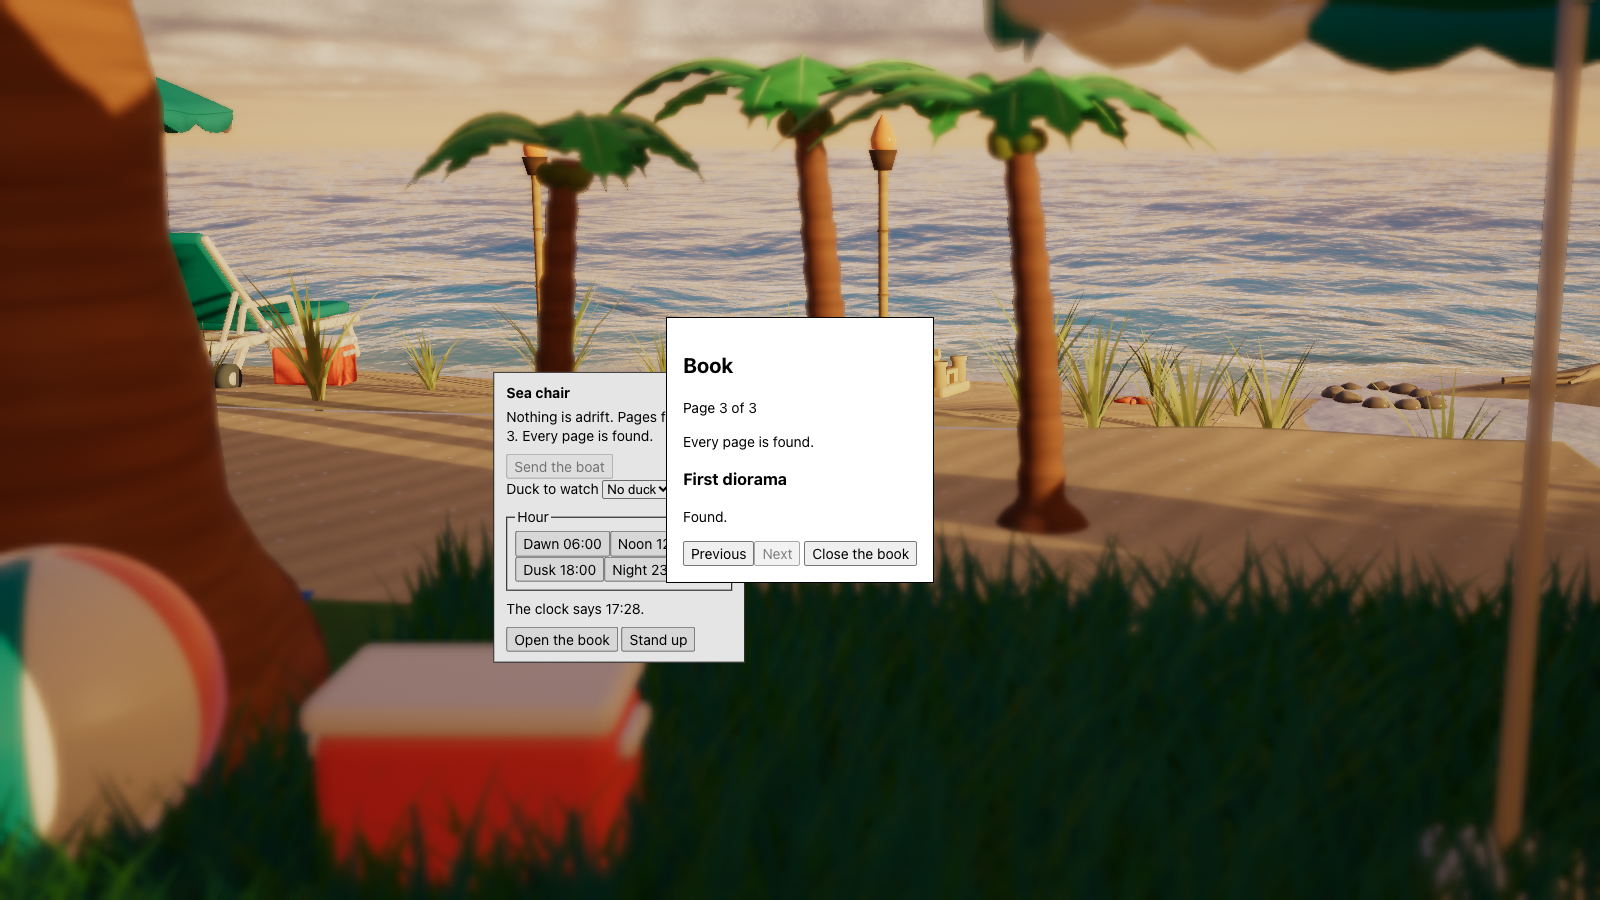
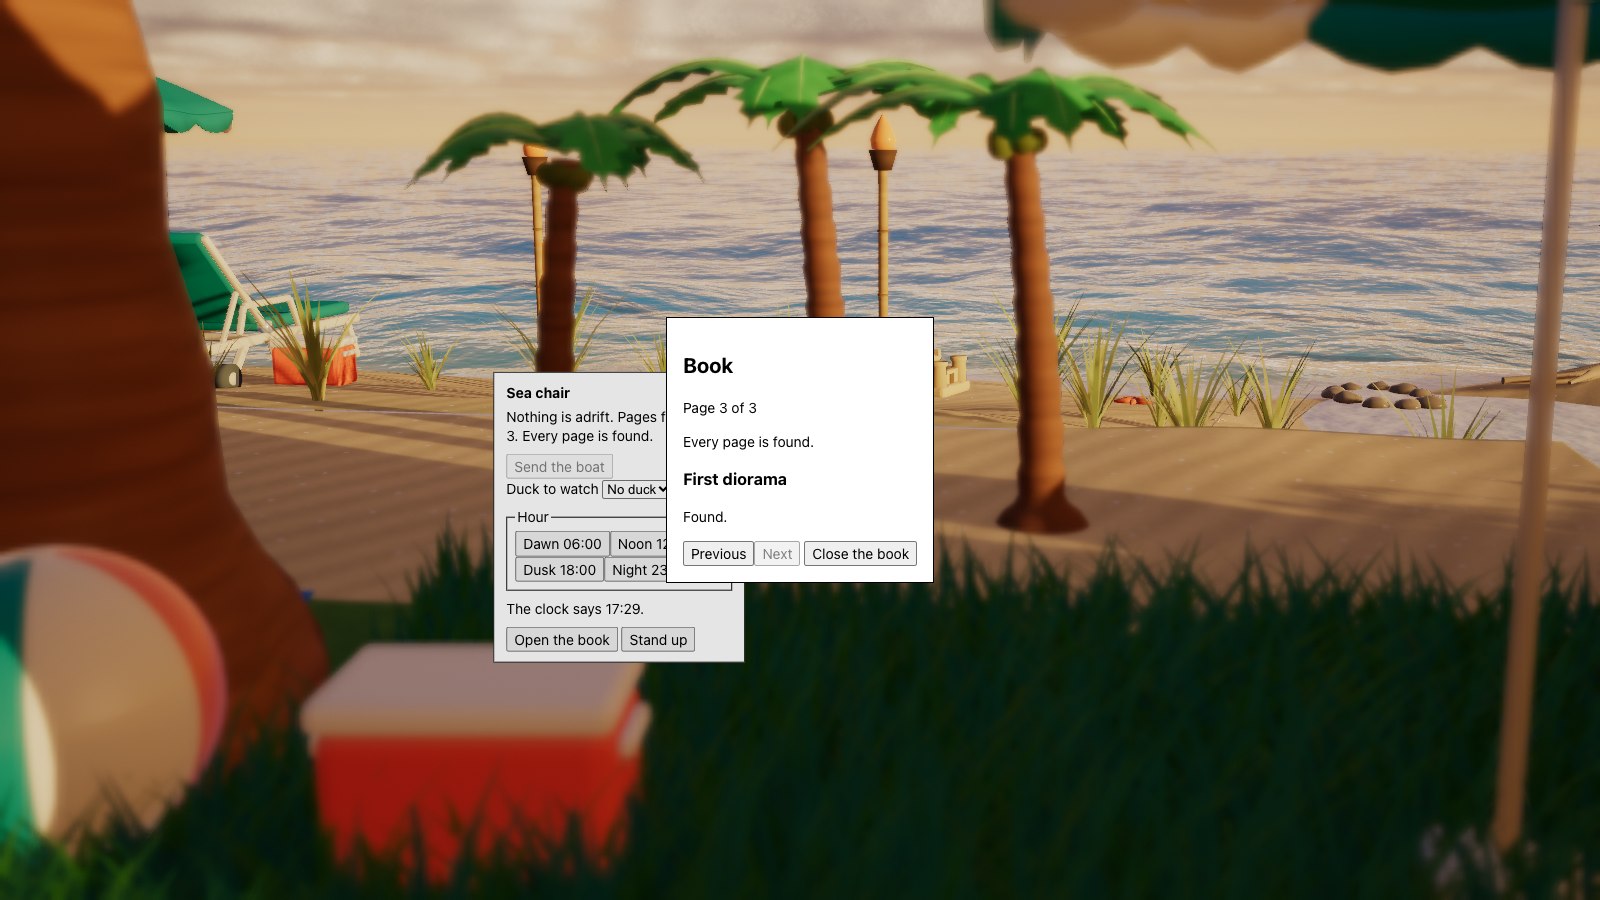
fix(rubber-duck-pool): story 005 review fixes from Sol
A stored book with a page id no longer in the list was rejected whole,
so a shorter list would wipe the duck designs, hats, stamps and records
too, and the next save would overwrite them. The list is a temporary
fixture the user will replace, so this would happen. An id not in the
list is now dropped on reading and the rest kept; a bad value on a listed
page still rejects the book as corrupt (a node test failed first).

The pool-collectibles drive closed the book before the last return, so it
never saw the completion line appear in an open book. It now keeps the
book open while the last page comes home and checks "Every page is
found." appears in place; with the open book's refresh disabled, the
drive fails.

Changed region(s): [[0.125, 0.2178, 1.0, 0.4356], [0.1562, 0.3733, 0.1875, 0.4044]]

diff --git a/.claude/skills/verify/drive/pool-collectibles.js b/.claude/skills/verify/drive/pool-collectibles.js
@@ -3,7 +3,7 @@
 // something is adrift the seated menu's Send the boat fetches it, and what comes home fills exactly the pages of what the
 // boat took: no other page, no page twice, and the book says the list is complete only after the last one. The book, opened
 // by Open the book, shows one page for each item in the list's order, empty ones before and filled ones after, and "Every
-// page is found." only when every page is. The hook steps the world's clock and reads the state; the clicks are the player's.
+// page is found." only when every page is: the open book says so the moment the last page comes home. The hook steps the world's clock and reads the state; the clicks are the player's.
 // Start from an empty store. window.__shot = 'sea' stops with the boat out and the items adrift, the camera on them (for
 // its screenshot); otherwise it ends with the complete book open on its last page (for the book's).
 (async () => {
@@ -52,8 +52,18 @@
     await input({ click: at(send) })
     if (W.boat.state === 'moored') fail(`Send the boat did not send it (trip ${n + 1})`)
     if (found().length !== before.length) fail('a page was recorded before the boat came home')
+    const last = before.length + took.length === ids.length   // this trip fills the book: watch it happen with the book open
+    if (last) {
+      await input({ click: at(opener) })
+      if (!dlg()?.open || complete()) fail(`the book open before the last return: open ${dlg()?.open}, complete "${complete()}"`)
+    }
     if (!(await run(400, () => W.boat.state === 'moored'))) fail(`the boat did not come home: ${W.boat.state}`)
     await frame()
+    if (last) {
+      if (!dlg().open || complete() !== 'Every page is found.') fail(`the open book did not say it was complete when the last page came home: "${complete()}"`)
+      out.push({ by: 'completed in the open book', complete: complete(), position: dlg().querySelector('.book-position')?.textContent })
+      await input({ key: 'Escape' })
+    }
     const after = found(), gained = after.filter((id) => !before.includes(id))
     if (!same(gained, took) || after.length !== before.length + took.length) fail(`a return filled other pages: the boat took ${took}, the book gained ${gained}`)
     if (!new RegExp(`Pages found: ${after.length} of ${ids.length}\\.`).test(status.textContent)) fail(`the menu does not count the pages: "${status.textContent}"`)

diff --git a/projects/rubber-duck-pool/src/pool/logbook.js b/projects/rubber-duck-pool/src/pool/logbook.js
@@ -29,7 +29,8 @@ const blank = () => ({ version: 2, pages: emptyPages(), designs: DESIGNS.map(() 
 function validArray(a, length, valid) { return Array.isArray(a) && a.length === length && a.every(valid); }
 function validBook(b) {
   if (!b || (b.version !== 1 && b.version !== 2)) return false;
-  if (b.version === 2 && (!b.pages || typeof b.pages !== 'object' || Array.isArray(b.pages) || !Object.values(b.pages).every(optionalTime) || Object.keys(b.pages).some(id => !COLLECTIBLES.some(item => item.id === id)))) return false;
+  // a page id no longer in the list is an older list, not corruption: it is dropped on reading, and the rest kept
+  if (b.version === 2 && (!b.pages || typeof b.pages !== 'object' || Array.isArray(b.pages) || !COLLECTIBLES.every(({id}) => b.pages[id] === undefined || optionalTime(b.pages[id])))) return false;
   if (!validArray(b.designs, DESIGNS.length, optionalTime)) return false;
   if (!validArray(b.hats, HAT_ENTRIES.length, v => typeof v === 'boolean')) return false;
   if (!validArray(b.stamps, STAMPS.length, optionalTime)) return false;
@@ -38,7 +39,7 @@ function validBook(b) {
 }
 function read(store) {
   try { const b = JSON.parse(store?.getItem(KEY) ?? 'null'); if (validBook(b)) return {
-    version: 2, pages: b.version === 1 ? emptyPages() : { ...emptyPages(), ...b.pages }, designs: b.designs, hats: b.hats, stamps: b.stamps,
+    version: 2, pages: b.version === 1 ? emptyPages() : Object.fromEntries(COLLECTIBLES.map(({id}) => [id, b.pages[id] ?? null])), designs: b.designs, hats: b.hats, stamps: b.stamps,
     records: { bestLap: b.records.bestLap, mostLaps: b.records.mostLaps, racesWon: b.records.racesWon },
   }; } catch { /* Storage may be disabled, full, or corrupt. */ }
   return blank();

diff --git a/projects/rubber-duck-pool/docs/improvements.md b/projects/rubber-duck-pool/docs/improvements.md
@@ -209,6 +209,7 @@ jelly의 14번(Pool Jelly)으로 만들었다가 기능이 많아져 따로 뺀 
 - [정함, 사용자 결정 대기] 모두 임시 가정이라 바꾸기 쉬운 자리에 있음. 목록의 이름과 개수(`collectibles.js`, "임시 fixture"). 나타나는 때 15~45초, 거리 4~12, 해안 여유 0.5, 서로 최소 2(`COLLECTIBLE_SPACING`, `world.js`). 디오라마의 임시 그림은 기존 `lifebuoy`, 병은 기존 `ball`(`COLLECTIBLE_MODELS`, `props.js`). 보트에 여럿이 탈 때 간격 0.4(`COLLECTIBLE_ABOARD_OFFSET`). 첫 병의 출현 때와 자리는 시드마다 이전과 같음(노드 테스트로 고정).
 - [확인] 새 `pool-collectibles` 드라이브: 빈 저장소에서 목록이 셋(병, 디오라마 포함)이고 도감 쪽과 같은 순서, 보트로 건질 때마다 싣고 온 것의 쪽만 채워짐(첫 번에는 두 번째 병만, 다음에는 첫 병과 디오라마), 완료는 마지막 쪽 뒤에만, 도감에서 쪽마다 제목이 다르고 Next가 끝에서 멈춤. 스크린샷 `production/qa/evidence/story-005-collectible-list/collectibles-sea.png`(바다에 병과 디오라마, 병을 싣고 가는 보트), `collectibles-book.png`(완료된 도감). 노드 테스트 106개와 다른 풀 드라이브 모두 통과.
 - [참고] 새 항목이 생기는 곳이 앉은 의자에서 안 보이는 문제와 임시 그림(공, 구명환)은 그대로 사용자 결정으로 남음.
+- [고침, Sol 검토] Sol(`gpt-6.1-sol`, medium)이 SHOULD FIX 둘을 냄(BLOCKING 없음). (1) 저장된 도감에 지금 목록에 없는 쪽 id가 하나라도 있으면 도감 전체(오리 무늬·모자·도장·기록까지)를 버렸음. 목록은 나중에 사용자가 바꿀 임시 값이라 실제로 일어날 일. 목록에 없는 id는 읽을 때 버리고 나머지는 그대로 두도록 고침(노드 테스트를 먼저 실패시킨 뒤). 목록에 있는 쪽의 값이 잘못된 것은 여전히 손상으로 보고 버림. (2) 드라이브가 마지막 귀환 전에 도감을 닫아, 열린 도감에서 완료 문구가 바로 뜨는지는 확인하지 않았음. 마지막 운항 때 도감을 열어 둔 채 귀환시키고 그 자리에서 "Every page is found."가 뜨는지 확인하도록 고침. 열린 도감이 새로 그려지지 않게 만든 빌드에서는 이 드라이브가 실패함을 확인.
 
 ## 앉아서 오리와 시간 고르기 (스토리 4, 10-31)
 - [더함] 앉은 메뉴에 "Duck to watch"(살아 있는 오리를 이름으로 나열한 선택 목록, 맨 앞에 "No duck")와 "Hour"(Dawn 06:00, Noon 12:00, Dusk 18:00, Night 23:00 단추)와 세계 시계 표시("The clock says 15:16.")를 더함. 오리를 고르면 `world.selected`가 그 오리 객체가 되고(장면에서 오리를 눌러 고른 것도 메뉴에 그대로 보임), 앉아 있는 동안 지켜보는 오리의 이름표만 켜짐. 카메라는 움직이지 않음(앉은 시점 유지, 따라가기 없음). 지켜보던 오리가 사라지면 "The duck you were watching has left."라고 알리고 선택이 비워짐. 시간 단추는 `world.setHour`만 부르고 시계는 계속 흐름.
